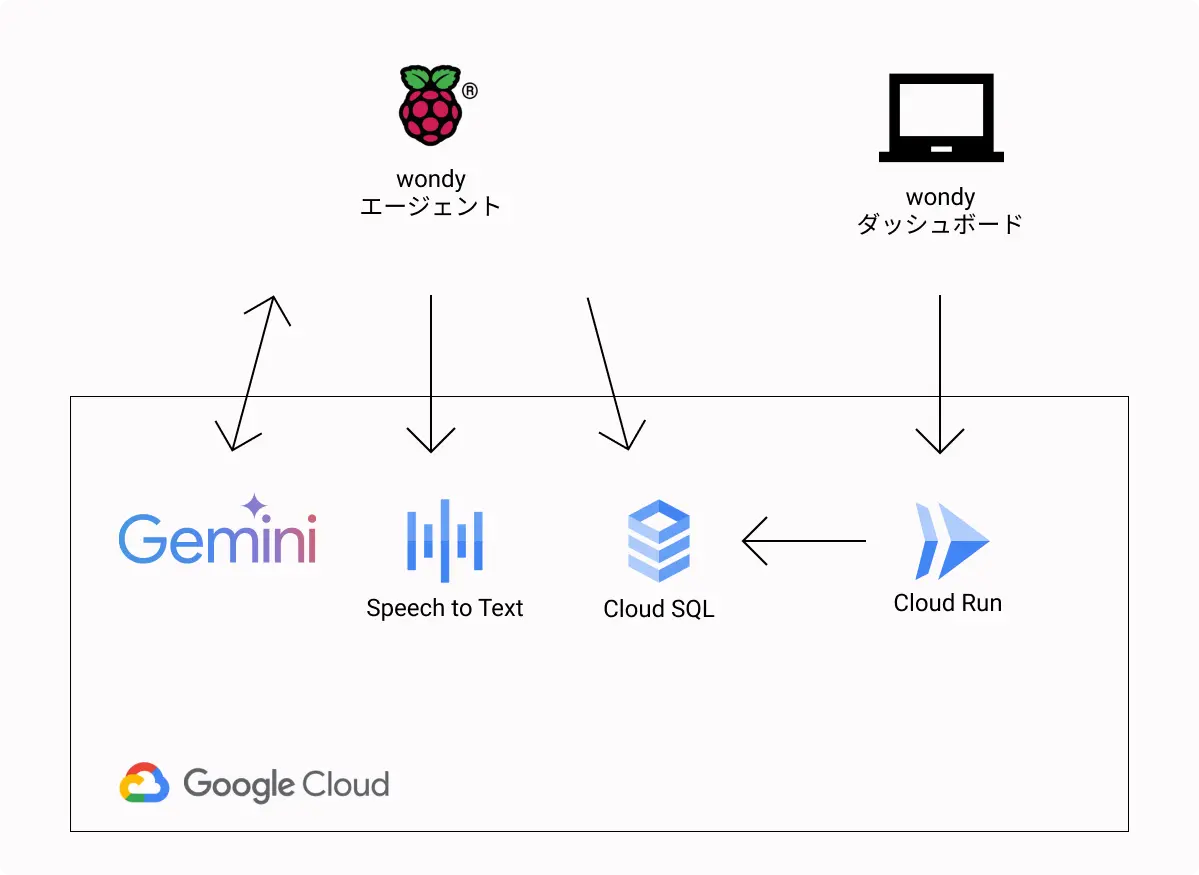
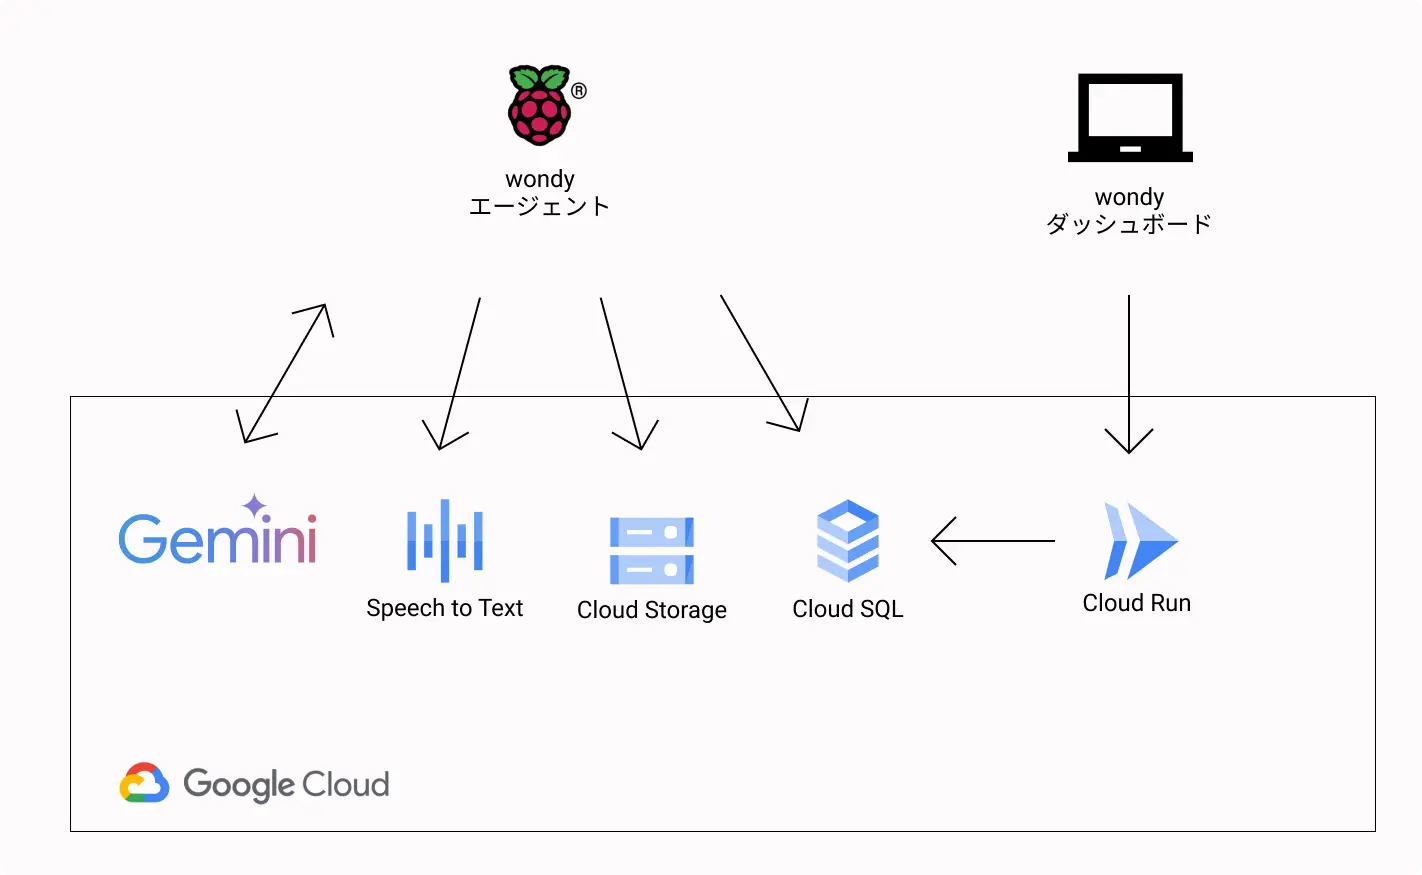
Add wondy agent and dashboard features for child and parent

diff --git a/articles/zenn-ai-agent-hackathon.md b/articles/zenn-ai-agent-hackathon.md
@@ -26,21 +26,25 @@ published: false
 - 興味を持った瞬間を逃すと、子供の関心が他のことに移りやすく、深い学びにつながらない
 - 触覚や実体験を通じた学習が必要な場合があり、Web 検索などデジタルツールだけでは不十分なケースがある
 
-# ソリューションと技術
+# ソリューション
 
 これらの課題に対するソリューションとして開発した「wondy」は、大きく 2 つのコンポーネントから構成されています。
 
 ### wondy エージェント
 
-主に子供が利用するインターフェースで、音声や映像を通じて子供の疑問に回答します。
+主に子供が利用するのを想定し、音声やカメラ映像を通じて質問に回答します。持ち運べるように電源はモバイルバッテリーから供給しています。
+
+![](/images/zenn-ai-agent-hackathon/68f93e83-3f07-448c-9ec3-c81716abf1ca.webp)
+_wondy エージェントの中身_
 
 ### wondy ダッシュボード
 
-親が利用するインターフェースで、子供の質問履歴や回答内容を確認できます。
+親が利用するのを想定したインターフェースで、子供の質問や wondy エージェントの回答履歴を確認できます。
+
+![](/images/zenn-ai-agent-hackathon/5b283580-6f82-4c4a-807c-0d6e0479d60f.webp)
+_wondy ダッシュボード_
 
 ## ソリューションが提供する価値
-
-wondy は以下のような価値をユーザーに提供します。
 
 ### 子供の疑問に応える直感的なインターフェース
 
@@ -62,31 +66,33 @@ _wondy エージェントの利用イメージ_
 
 これらのソリューションにより、子供の好奇心を育むと同時に、親子のコミュニケーションを促進し、子供の成長をサポートします。
 
-## システムアーキテクチャ
+# システム構成
 
 ![](/images/zenn-ai-agent-hackathon/ffacbbdf-372f-4499-8f9f-2a09874f9a13.webp)
 _システムアーキテクチャ図_
 
-### wondy エージェント
+## wondy エージェント
 
 本体は、Raspberry Pi 3 Model B+にカメラ・マイク・スピーカーを搭載したものを使用しています。Python で実装されたアプリケーションが、以下の API と通信しています。
 
-#### Gemini Multimodal Live API
+### Gemini Multimodal Live API
 
 WebSocket 通信して、カメラやマイクで取得した情報をリアルタイムに送信し、回答を音声データとして取得してスピーカーから出力します。
 
-#### Speech-to-Text API
+### Speech-to-Text API
 
 ユーザーの入力音声と、エージェントの回答音声をテキストに変換するために使用します。wondy ダッシュボードで会話履歴を確認する際に、音声データ履歴が表示されるよりもテキストの方がわかりやすいため、この変換処理を行っています。
 
 ![](/images/zenn-ai-agent-hackathon/6dbc8f9f-1057-4f68-a023-107f3870dfd9.webp)
 _音声の会話履歴だと毎回再生が必要で体験が悪い_
 
+### Cloud Storage
 
-### wondy ダッシュボード
+ユーザーの入力音声と、エージェントの回答音声の生データを保存しています。Multimodal Live API の[公式リファレンス](https://cloud.google.com/vertex-ai/generative-ai/docs/multimodal-live-api)で言語は英語のみ対応とあるので、日本語の音声は若干カタコトになることがあります。そうなると Speech-to-Text の結果も若干おかしな回答になるので、生データを保存しておいて後から確認できるようにしています。（ダッシュボードからの再生は未対応です）
 
-- 言語: TypeScript
-- フレームワーク: Next.js, Tailwind CSS
+## wondy ダッシュボード
+
+Next.js で実装した Web アプリケーションを Cloud Run にホスティングしています。
 
 # 実装とデザイン
 
